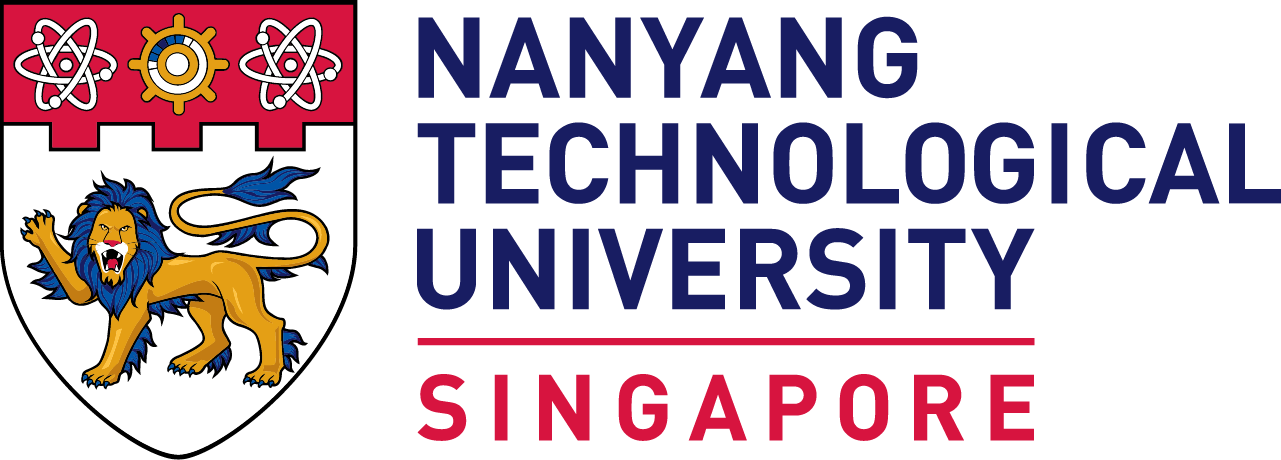
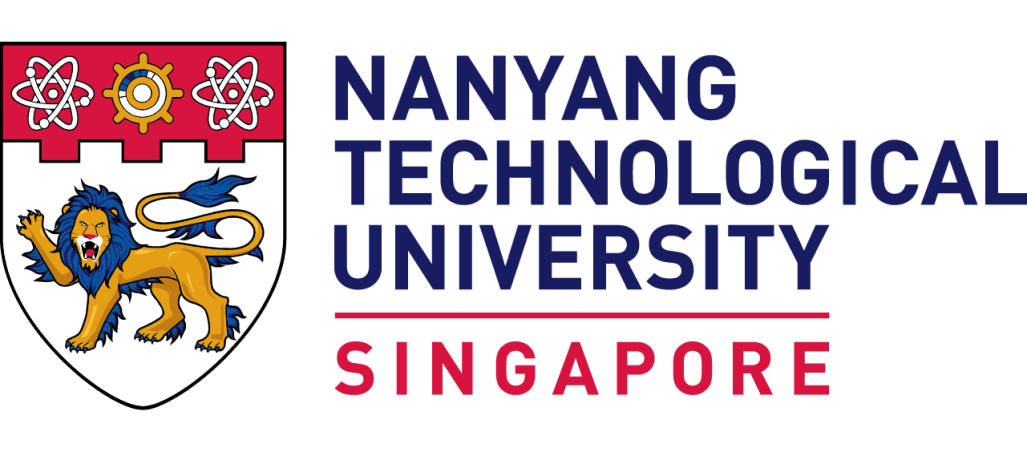
Stable Docker Production Build

diff --git a/backend/controllers/MainController.js b/backend/controllers/MainController.js
@@ -9,44 +9,10 @@ class MainController {
   static async streamByRecording (req, res, next) {
     try {
       const token = req.body.token
-
-      let client = new WebSocketClient()
-      let conn = null
-      client.on('connectFailed', (error) => {
-        console.log('Connect Error: ' + error.toString())
-        io.emit('stream-close') // send close signal to client
-      })
-
-      client.on('connect', (connection) => {
-        conn = connection
-        console.log('WebSocket Client Connected')
-
-        io.emit('stream-ready') // tell frontend that socket is ready
-
-        connection.on('error', (error) => {
-          console.log('Connection Error: ' + error.toString())
-        })
-        connection.on('close', () => {
-          console.log('echo-protocol Connection Closed')
-
-          io.emit('stream-close') // send close signal to client
-
-          client = null
-        })
-        connection.on('message', (message) => {
-          const data = JSON.parse(message.utf8Data)
-
-          if (data.status === 0 && data.result) { // only send data which is truely a transcription to browser
-            io.emit('stream-data', data)
-          }
-        })
-      })
-
-      // start connect to online server
-      client.connect(`${englishOnlineServerUrl}?content-type=audio/x-raw,+layout=(string)interleaved,+rate=(int)16000,+format=(string)S16LE,+channels=(int)1?token=${token}`, null, null, null, null)
       
       // in this example, client doesn't join any room. so in here we need to listen on all sockets connected to backend
       Object.keys(io.sockets.connected).forEach(key => {
+        
         io.sockets.connected[key].on('stream-input', data => {
           if (conn) {
             conn.sendBytes(data)
@@ -63,15 +29,49 @@ class MainController {
         io.sockets.connected[key].on('stream-cancel', () => {
           conn.close() // immediately close connection to online server
         })
+
+        let client = new WebSocketClient()
+        let conn = null
+      
+        client.on('connectFailed', (error) => {
+          console.log('Connect Error: ' + error.toString())
+          io.sockets.connected[key].emit('stream-close') // send close signal to client
+        })
+  
+        client.on('connect', (connection) => {
+          conn = connection
+          console.log('WebSocket Client Connected')
+  
+          io.sockets.connected[key].emit('stream-ready') // tell frontend that socket is ready
+  
+          connection.on('error', (error) => {
+            console.log('Connection Error: ' + error.toString())
+          })
+          connection.on('close', () => {
+            console.log('echo-protocol Connection Closed')
+  
+            io.sockets.connected[key].emit('stream-close') // send close signal to client
+  
+            client = null
+          })
+          connection.on('message', (message) => {
+            const data = JSON.parse(message.utf8Data)
+  
+            if (data.status === 0 && data.result) { // only send data which is truely a transcription to browser
+              io.sockets.connected[key].emit(`stream-data`, data)
+            }
+          })
+        })
+  
+        // start connect to online server
+        client.connect(`${englishOnlineServerUrl}?content-type=audio/x-raw,+layout=(string)interleaved,+rate=(int)16000,+format=(string)S16LE,+channels=(int)1?token=${token}`, null, null, null, null)
+
       })
 
-      return res.json({
-        success: true
-      })
+      return res.json({success: true})
+
     } catch (e) {
-      return res.status(500).json({
-        message: 'Error when streaming'
-      })
+      return res.status(500).json({message: 'Error when streaming'})
     }
   }
 

diff --git a/frontend/src/containers/Dashboard.jsx b/frontend/src/containers/Dashboard.jsx
@@ -24,9 +24,10 @@ import MICL from "./MICL";
 import Charts from "./Charts";
 import UploadBox from "./UploadBox";
 import Rajat from "./Rajat";
-import AISG from "../img/AISG.png";
-import MSF from "../img/MSF.png";
-import NTU from "../img/NTU.png";
+import NUS from "../img/nus.png";
+import AISG from "../img/aisg.png";
+import MSF from "../img/msf.png";
+import NTU from "../img/ntu.png";
 import Banner from "./Banner";
 import {Tab, Tabs} from "react-bootstrap";
 
@@ -34,7 +35,6 @@ const content={flexgrow: 1, height: '100vh', overflow:'auto'};
 const container={paddingTop: '50px', paddingBottom:'10px'};
 const textField={width:'595px'};
 const textPosition ={paddingLeft: '10px', paddingTop:'10px', paddingBottom:'10px'};
-  
 
 class Dashboard extends Component{
 
@@ -520,6 +520,7 @@ class Dashboard extends Component{
 
   reset = () => {
     this.setState({
+      input: '',
       transcription: '',
       partialResult: ''
     })
@@ -547,14 +548,17 @@ class Dashboard extends Component{
             <Container maxWidth="lg" style={container}>
 
             <Grid container style={{paddingBottom:"40px"}} justify="center">
-              <Grid item xs={6} md={2} style={{textAlign:"center"}}>
-                    <img src={AISG} style={{width: '80px', height: '80px'}} alt="AISG Logo"/>
+              <Grid item xs={8} md={2} style={{textAlign:"center"}}>
+                    <img src={AISG} style={{width: '80px', height:'70px'}} alt="AISG Logo"/>
               </Grid>
-              <Grid item xs={6} md={2} style={{textAlign:"center"}}>
-                  <img src={NTU} style={{width: '230px', height: '80px'}} alt="NTU Logo"/>
+              <Grid item xs={8} md={2} style={{textAlign:"center"}}>
+                  <img src={NTU} style={{width: '160px', height:'70px'}} alt="NTU Logo"/>
               </Grid>
-              <Grid item xs={6} md={2} style={{textAlign:"center", paddingLeft:"60px"}}>
-                    <img src={MSF} style={{width: '160px', height: '80px'}} alt="MSF Logo"/>
+              <Grid item xs={8} md={2} style={{textAlign:"center", paddingLeft:"30px"}}>
+                    <img src={NUS} style={{width: '160px', height:'70px'}} alt="NUS Logo"/>
+              </Grid>
+              <Grid item xs={8} md={2} style={{textAlign:"center", paddingLeft:"30px"}}>
+                    <img src={MSF} style={{width: '160px', height:'70px'}} alt="MSF Logo"/>
               </Grid>
             </Grid>
 

diff --git a/frontend/public/index.html b/frontend/public/index.html
@@ -9,7 +9,7 @@
       name="description"
       content="Web site created using create-react-app"
     />
-    <link rel="apple-touch-icon" href="logo192.png" />
+    <link rel="apple-touch-icon" href="favicon.ico" />
     <!--
       manifest.json provides metadata used when your web app is installed on a
       user's mobile device or desktop. See https://developers.google.com/web/fundamentals/web-app-manifest/
@@ -24,7 +24,7 @@
       work correctly both with client-side routing and a non-root public URL.
       Learn how to configure a non-root public URL by running `npm run build`.
     -->
-    <title>React App</title>
+    <title>Speechlab Chatbot</title>
     <link 
       rel="stylesheet" 
       href="https://maxcdn.bootstrapcdn.com/bootstrap/4.3.1/css/bootstrap.min.css" 

diff --git a/frontend/src/Record.js b/frontend/src/Record.js
@@ -196,7 +196,6 @@ export default class Record extends Component {
         token: this.props.token
       })
 
-
       const recordInterval = setInterval(() => {
         this.state.recorder.export16kMono((blob) => {
           if (this.props.isSocketReady) {
@@ -236,6 +235,7 @@ export default class Record extends Component {
         }
         this.state.recorder.clear()
       }, 'audio/x-raw')
+      this.props.reset()
     } else {
       this.$emit('onError', 'Recorder undefined')
     }

diff --git a/backend/io.js b/backend/io.js
@@ -3,12 +3,8 @@ const sio = require('socket.io')
 const io = sio()
 
 io.on('connection', (socket) => {
-  console.log('a user connected')
-
-  socket.on('join room', data => {
-    console.log('user joined room')
-    socket.join(data.room)
-  })
+  console.log(socket.id + ' connected')
+  socket.join(socket.id)
 })
 
 module.exports = io
